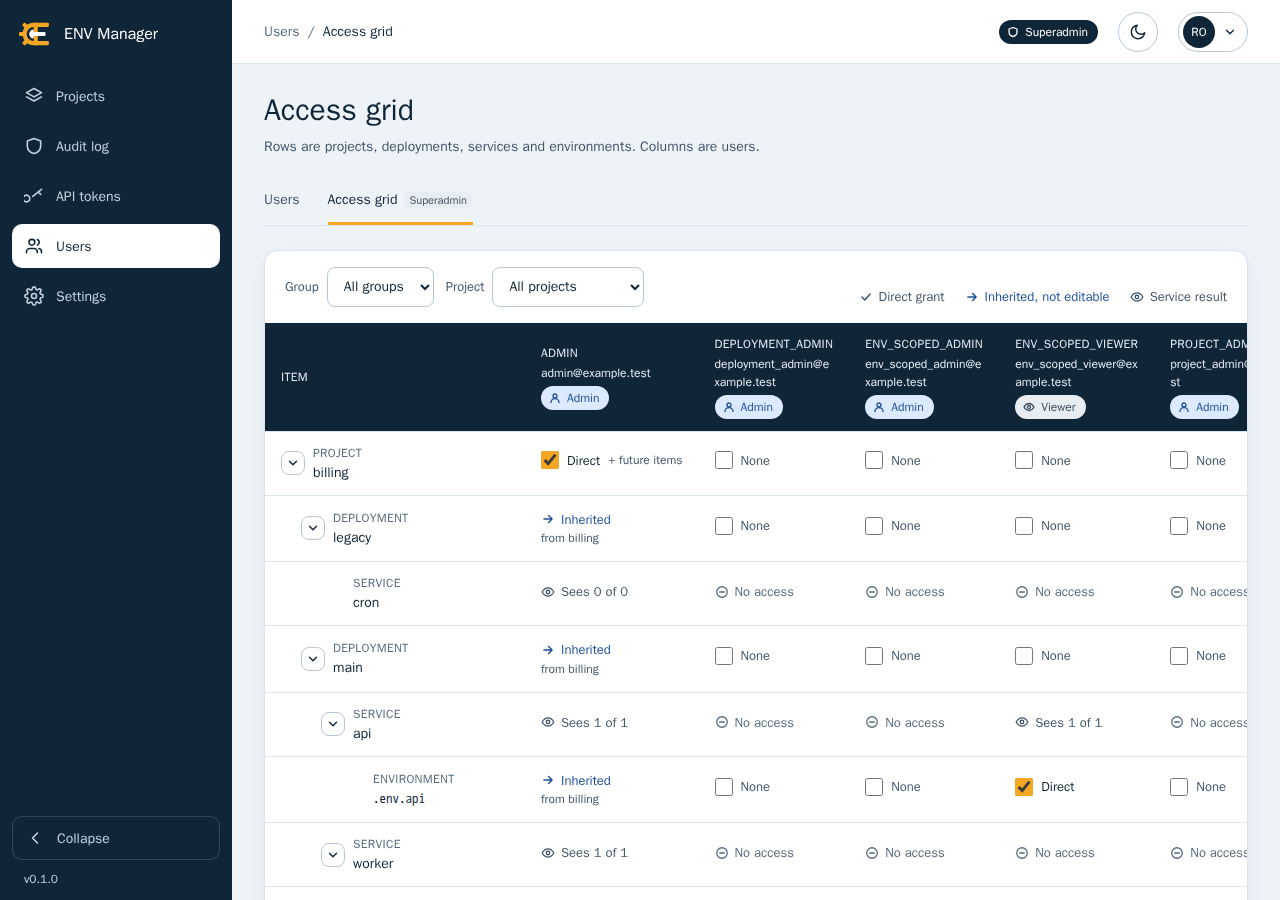
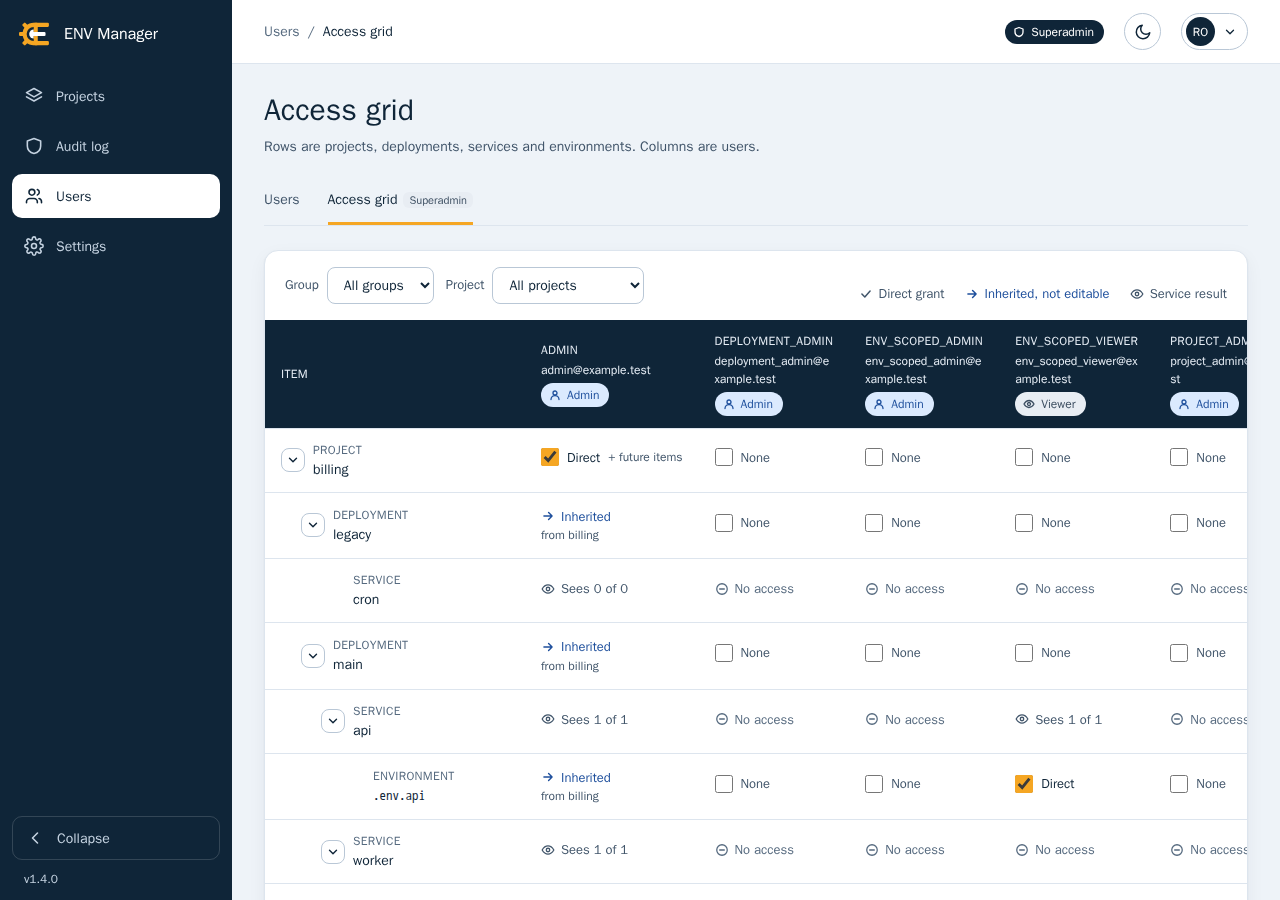
docs: show the deployment overview and logs in the README screenshots

diff --git a/README.md b/README.md
@@ -69,13 +69,15 @@ https://www.buymeacoffee.com/websvc
 
 ## Screenshots
 
-![Projects overview with the last deploy result and what needs attention](docs/images/projects-overview.png)
+![Deployment overview with the running containers, their uptime and the network](docs/images/deployment-overview.png)
+
+![Deployment logs following the containers, with a stored value masked](docs/images/deployment-logs.png)
 
 ![Environment editor with masked values, each reveal audited](docs/images/environment-editor-masked-values.png)
 
-![Audit log with filters and CSV export](docs/images/audit-log.png)
-
 ![Access grid showing who reaches which project, deployment, service and file](docs/images/access-grid.png)
+
+![Audit log with filters and CSV export](docs/images/audit-log.png)
 
 ## Quick start
 
